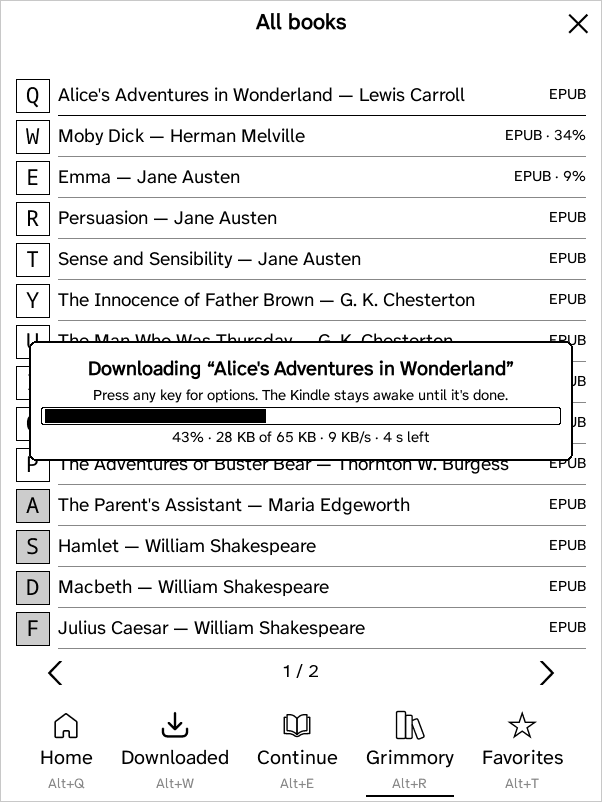
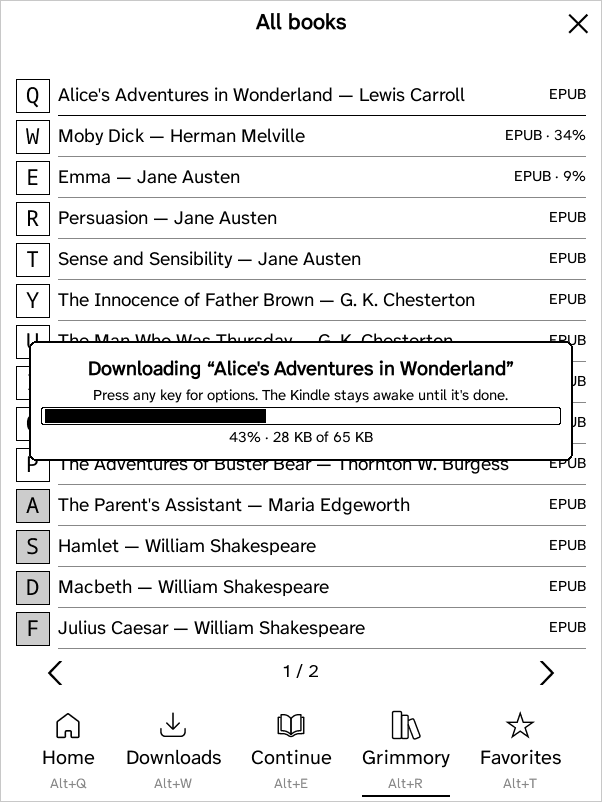
README: screenshots retaken on 1.2.9; "Downloads" in docs and the setup guide
Claude-Session: https://claude.ai/code/session_01HqNYrwobY8un97LQ2jriQC

diff --git a/GZREADER.md b/GZREADER.md
@@ -11,7 +11,7 @@ Based on KOReader `v2026.07.1` and ZenOS `4.2.0`. Version: see `GZREADER_VERSION
 
 | Kept | Why |
 | --- | --- |
-| `zenos.koplugin` | The interface (Home, Downloaded, navbar). English only. |
+| `zenos.koplugin` | The interface (Home, Downloads, navbar). English only. |
 | `coverbrowser.koplugin` | Required by ZenOS's library views. |
 | `statistics.koplugin` | Feeds ZenOS's Home reading-stats widgets. |
 | `autosuspend.koplugin` | Battery. |
@@ -65,11 +65,11 @@ anything fails, the previous files are put back. Then GZreader restarts.
 
 | Where | Key | Does |
 | --- | --- | --- |
-| Home / lists | Alt + Q, W, E, R, T | Switch the bottom tabs, counted from the left: Alt+Q Home, Alt+W Downloaded, Alt+E Continue, Alt+R Grimmory, Alt+T Favorites (Alt + the top row is how the Kindle Keyboard types 1–9). Also works from the Grimmory browser. |
+| Home / lists | Alt + Q, W, E, R, T | Switch the bottom tabs, counted from the left: Alt+Q Home, Alt+W Downloads, Alt+E Continue, Alt+R Grimmory, Alt+T Favorites (Alt + the top row is how the Kindle Keyboard types 1–9). Also works from the Grimmory browser. |
 | Any list or menu | Q, W, E, … | Pick the entry with that letter (shown next to it), in lists, the ZenOS settings and KOReader's menus. |
 | KOReader's menus | Alt + Q, W, E, … | Switch the menu's tabs. |
 | Home / lists | Menu | GZreader menu: Grimmory library, continue reading, audiobooks, search, history, Wi‑Fi, Settings (the Settings page), KOReader settings, updates, send log, sleep, restart, Quick panel (ZenOS), exit. Replaces ZenOS's touch quick-settings panel (switch: Grimmory → Menu key opens the GZreader menu). |
-| Home / Downloaded, book highlighted | Menu | The GZreader menu starts with that book: Open, Delete from this Kindle (asks first; Grimmory keeps it), More options (ZenOS's book menu). **Sort books…** is always in it. |
+| Home / Downloads, book highlighted | Menu | The GZreader menu starts with that book: Open, Delete from this Kindle (asks first; Grimmory keeps it), More options (ZenOS's book menu). **Sort books…** is always in it. |
 | Reading | Menu | Reading menu: contents, bookmarks, bookmark this page, go to page, search, read aloud, fonts, sync, dictionary, page browser, book info, Settings, Quick panel, close book. |
 | Reading | Hold Menu | ZenOS page browser. |
 | Reading | AA | Fonts and layout. |
@@ -127,7 +127,7 @@ a sub-list, a back arrow.
 Grimmory's subtitle is added to the title ("Diary of a Wimpy Kid: Old
 School") in the Grimmory lists and, for downloaded books, as KOReader custom
 metadata (`.sdr/custom_metadata.lua`, like Book information → edit title),
-so Home, Downloaded, history and the reader show it. The app API's lists have
+so Home, Downloads, history and the reader show it. The app API's lists have
 no subtitles, so they come from the library index (Grimmory's web book list,
 `/api/v1/books/page`) and from the book itself after a download. Titles you
 edited yourself are left alone.
@@ -153,7 +153,7 @@ fetched in the background and kept in `koreader/cache/grimmory-thumbs/`
 ## Home folder and downloads
 
 The GZreader folder (`documents/GZreader`) is the home folder; the
-**Downloaded** tab shows it. Books download in a background process with a
+**Downloads** tab shows it. Books download in a background process with a
 progress bar (percentage, MB received of the total; the Kindle stays awake
 until it's done). Picking more books while one downloads queues them; they
 download one after another (lists show "queued"; the download options can

diff --git a/README.md b/README.md
@@ -39,7 +39,7 @@ a built-in connection to a self-hosted **Grimmory** book server.
 
 <table>
 <tr><td align="center" valign="top" width="33%"><img src="docs/screenshots/grimmory-tab.png" alt="The Grimmory tab" width="240"><br><sub>The Grimmory tab</sub></td><td align="center" valign="top" width="33%"><img src="docs/screenshots/grimmory-all-books.png" alt="All books, with reading progress" width="240"><br><sub>All books, with reading progress</sub></td><td align="center" valign="top" width="33%"><img src="docs/screenshots/download-confirm.png" alt="Download and open" width="240"><br><sub>Download and open</sub></td></tr>
-<tr><td align="center" valign="top" width="33%"><img src="docs/screenshots/download-progress.png" alt="Downloading in the background" width="240"><br><sub>Downloading in the background</sub></td><td align="center" valign="top" width="33%"><img src="docs/screenshots/downloaded-tab.png" alt="The Downloaded tab" width="240"><br><sub>The Downloaded tab</sub></td><td align="center" valign="top" width="33%"><img src="docs/screenshots/reading.png" alt="Reading" width="240"><br><sub>Reading</sub></td></tr>
+<tr><td align="center" valign="top" width="33%"><img src="docs/screenshots/download-progress.png" alt="Downloading in the background" width="240"><br><sub>Downloading in the background</sub></td><td align="center" valign="top" width="33%"><img src="docs/screenshots/downloads-tab.png" alt="The Downloads tab" width="240"><br><sub>The Downloads tab</sub></td><td align="center" valign="top" width="33%"><img src="docs/screenshots/reading.png" alt="Reading" width="240"><br><sub>Reading</sub></td></tr>
 </table>
 
 ### Reading menu and read aloud
@@ -58,7 +58,7 @@ a built-in connection to a self-hosted **Grimmory** book server.
 - **Browse** Continue reading, Recently added, All books, **Libraries**, **Authors**,
   **Series** (in reading order) and Search. Audiobooks are left out.
 - **Background downloads** with a progress bar; keep using the Kindle while a book
-  downloads. Books go to a `GZreader` folder, shown in the **Downloaded** tab.
+  downloads. Books go to a `GZreader` folder, shown in the **Downloads** tab.
 
 ### 🔄 Sync with Grimmory
 - **Reading position** syncs with Grimmory's own progress (the web reader's), not the
@@ -86,7 +86,7 @@ a built-in connection to a self-hosted **Grimmory** book server.
 - **GZreader menu** on the **Menu** key at Home: library, continue reading,
   audiobooks, search, Wi‑Fi, settings, updates, sleep, restart — also
   with letter keys.
-- **Alt + Q, W, E, R, T** switch the bottom tabs (Home, Downloaded, Continue,
+- **Alt + Q, W, E, R, T** switch the bottom tabs (Home, Downloads, Continue,
   Grimmory, Favorites).
 - **Back** returns from a link, otherwise goes Home (never back to the book's start).
 
